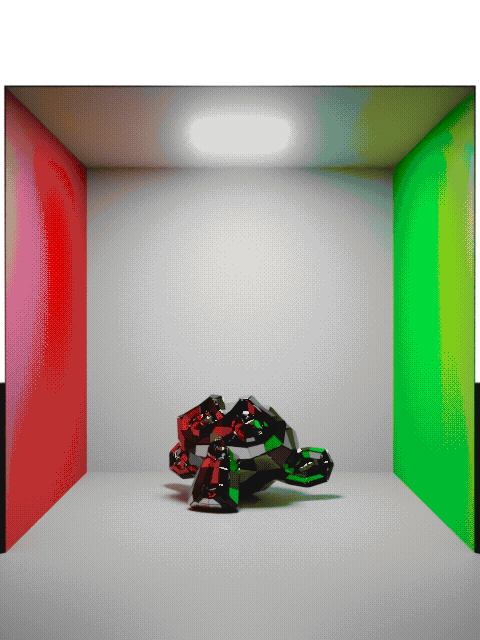
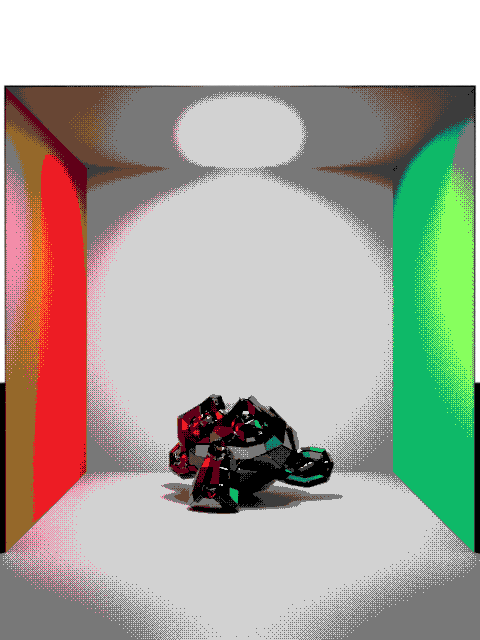
Add string settings

diff --git a/src/main.cpp b/src/main.cpp
@@ -1,7 +1,9 @@
+#include <algorithm>
 #include <array>
 #include <filesystem>
 #include <fstream>
 #include <iostream>
+#include <map>
 #include <string>
 
 #include "../ext/json/json.hpp"
@@ -32,7 +34,7 @@ int main(int argc, char* argv[]) {
 	}
 	json settings = json::parse(settingsLoc);
 
-	std::string imageLoc = "data/suzanne.png";
+	std::string imageLoc = "data/test.png";
 	Image::ImageType imageType = Image::GetFileType(imageLoc.c_str());
 	if (imageType == Image::ImageType::NA) {
 		Log::WriteOneLine("Image not found");
@@ -56,19 +58,28 @@ int main(int argc, char* argv[]) {
 	// ========== GET SETTINGS ==========
 
 	Log::WriteOneLine("===== GETTING SETINGS =====");
-	std::array<std::string, 4> required = {
-		"dither",
-		"grayscale",
-		"dist_lightness",
-		"ordered_dither"
+	std::map<std::string, json::value_t> required = {
+		{ "dither", json::value_t::boolean },
+		{ "grayscale", json::value_t::boolean },
+		{ "dist_lightness", json::value_t::boolean },
+		{ "ditherType", json::value_t::string },
+		{ "distanceMode", json::value_t::string },
 	};
 	bool allFound = true;
-	for (const auto& key : required) {
-		if (!settings.contains(key)) {
-			Log::WriteOneLine("JSON setting not found: " + key);
+	for (auto it = required.begin(); it != required.end(); it++) {
+		if (!settings.contains(it->first)) {
+			Log::WriteOneLine("JSON setting not found: " + it->first);
 			allFound = false;
-		} else {
-			Log::WriteOneLine(key + ": " + Log::ToString((bool)settings[key]));
+		} else if (settings[it->first].type() != it->second) {
+			Log::WriteOneLine("Wrong value type: " + it->first);
+			allFound = false;
+		} else if (it->second == json::value_t::boolean) {
+			Log::WriteOneLine(it->first + ": " + Log::ToString((bool)settings[it->first]));
+		} else if (it->second == json::value_t::string) {
+			std::string value = settings[it->first];
+			std::transform(value.begin(), value.end(), value.begin(), ::tolower);
+			settings[it->first] = value;
+			Log::WriteOneLine(it->first + ": \"" + (std::string)settings[it->first] + "\"");
 		}
 	}
 
@@ -101,14 +112,14 @@ int main(int argc, char* argv[]) {
 	Log::EndLine();
 	Log::WriteOneLine("===== DITHERING =====");
 
-	Dither::OrderedDither(image, palette);
+	Dither::OrderedDither(image, palette, (std::string)settings["distanceMode"]);
 
 	// ===== Generate Output Path =====
-	
+
 	const std::string outputLoc = NoExtension(imageLoc) + "_out.png";
 
 	image.Write(outputLoc.c_str());
-	
+
 	Log::Save();
 	Log::HoldConsole();
 	return 0;

diff --git a/src/image/Dither.cpp b/src/image/Dither.cpp
@@ -21,7 +21,7 @@ std::array<uint8_t, 256> Dither::m_bayer16 {
 	 170, 106, 154,  90, 166, 102, 150,  86, 169, 105, 153,  89, 165, 101, 149,  85
 };
 
-bool Dither::OrderedDither(Image& image, const Palette& palette) {
+bool Dither::OrderedDither(Image& image, const Palette& palette, const std::string distanceType) {
 	const int imgWidth = image.GetWidth();
 	const int imgHeight = image.GetHeight();
 
@@ -58,7 +58,11 @@ bool Dither::OrderedDither(Image& image, const Palette& palette) {
 				dithered.UpdatesRGB();
 			}
 
-			Colour::SetMathMode(Colour::MathMode::OkLab);
+			if (distanceType == "oklab") {
+				Colour::SetMathMode(Colour::MathMode::OkLab);
+			} else {
+				Colour::SetMathMode(Colour::MathMode::sRGB);
+			}
 			Colour nearest = ClosestColour(dithered, palette);
 			Colour::sRGB_UInt nearest_int = nearest.GetsRGB_UInt();
 

diff --git a/src/image/Dither.h b/src/image/Dither.h
@@ -14,7 +14,7 @@ public:
 	/// <param name="image"></param>
 	/// <param name="palette"></param>
 	/// <returns>Success</returns>
-	static bool OrderedDither(Image& image, const Palette& palette);
+	static bool OrderedDither(Image& image, const Palette& palette, const std::string distanceType = "ordered");
 
 private:
 	static std::array<uint8_t, 256> m_bayer16;

diff --git a/src/wrapper/Log.cpp b/src/wrapper/Log.cpp
@@ -109,7 +109,7 @@ bool Log::CheckTimeSeconds(const double seconds) {
 }
 
 std::string Log::ToString(const bool value) {
-	return value ? "TRUE" : "FALSE";
+	return value ? "true" : "false";
 }
 
 std::string Log::ToString(const double value, const unsigned int precision) {
